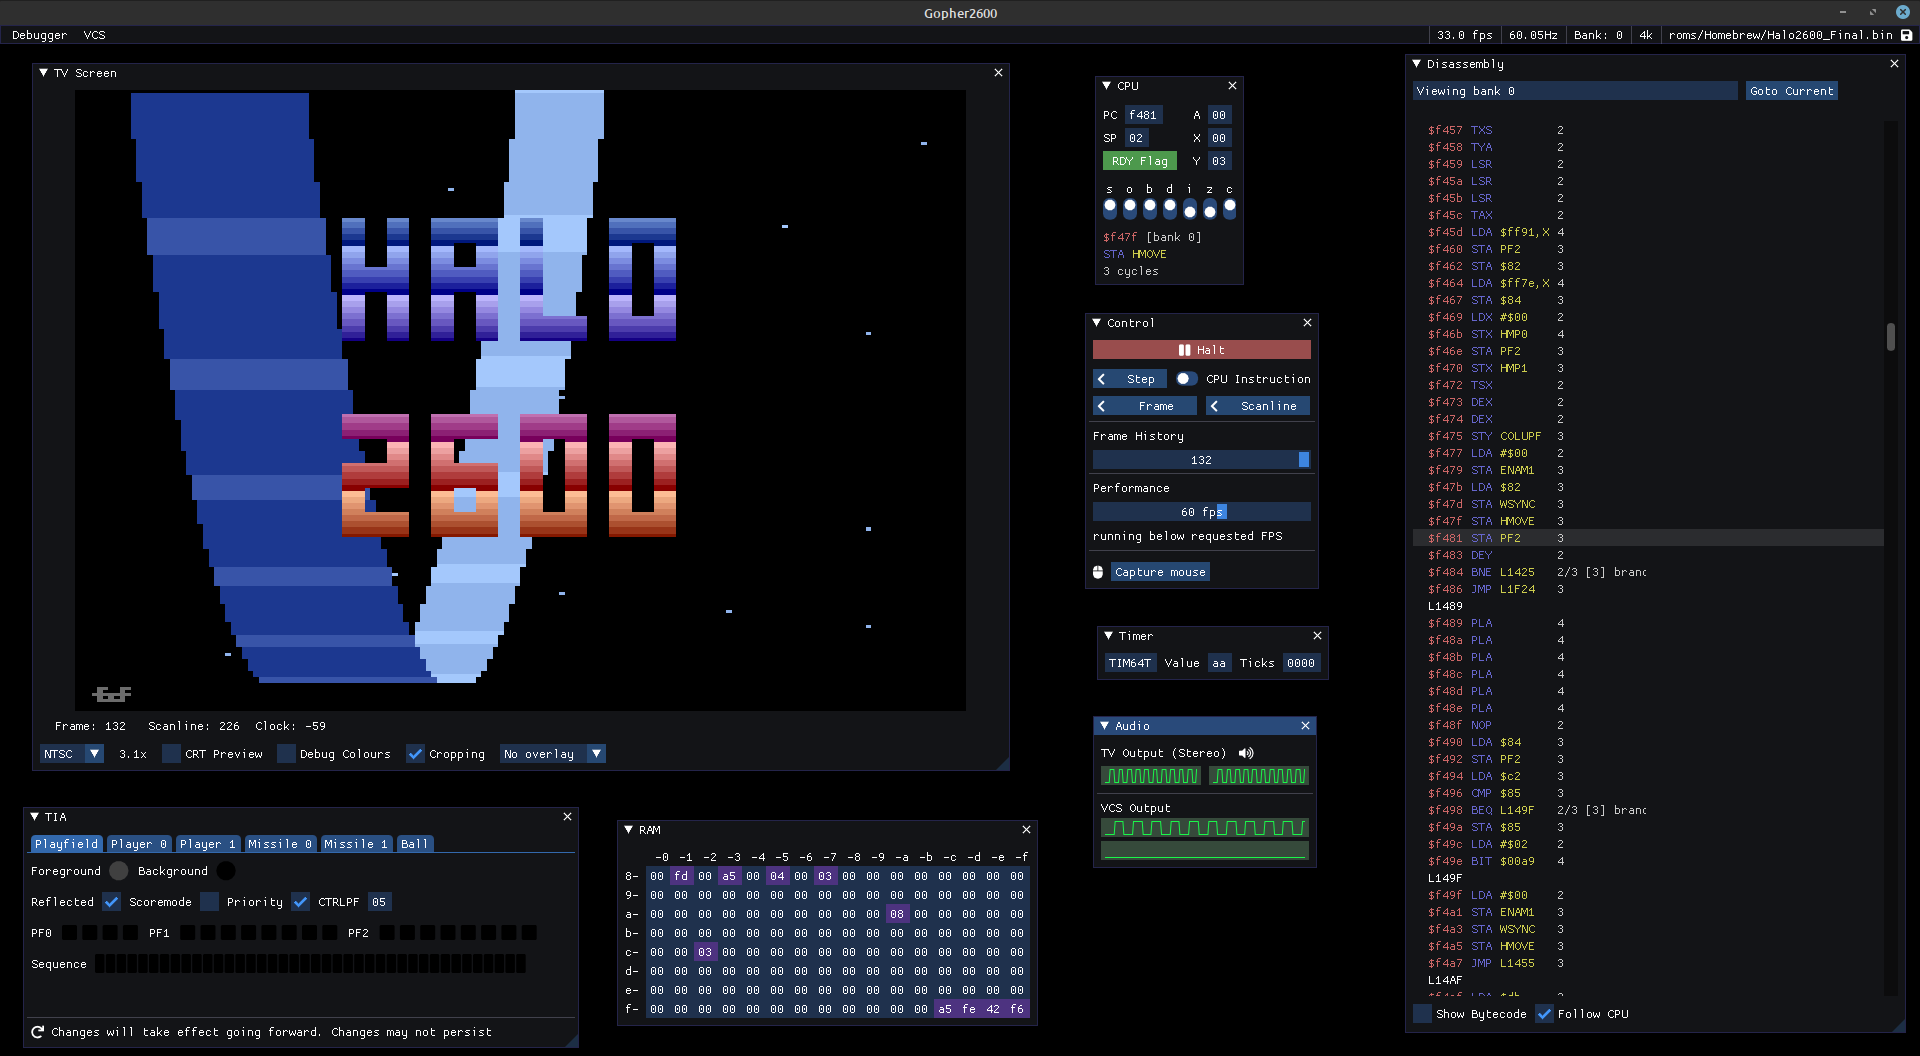
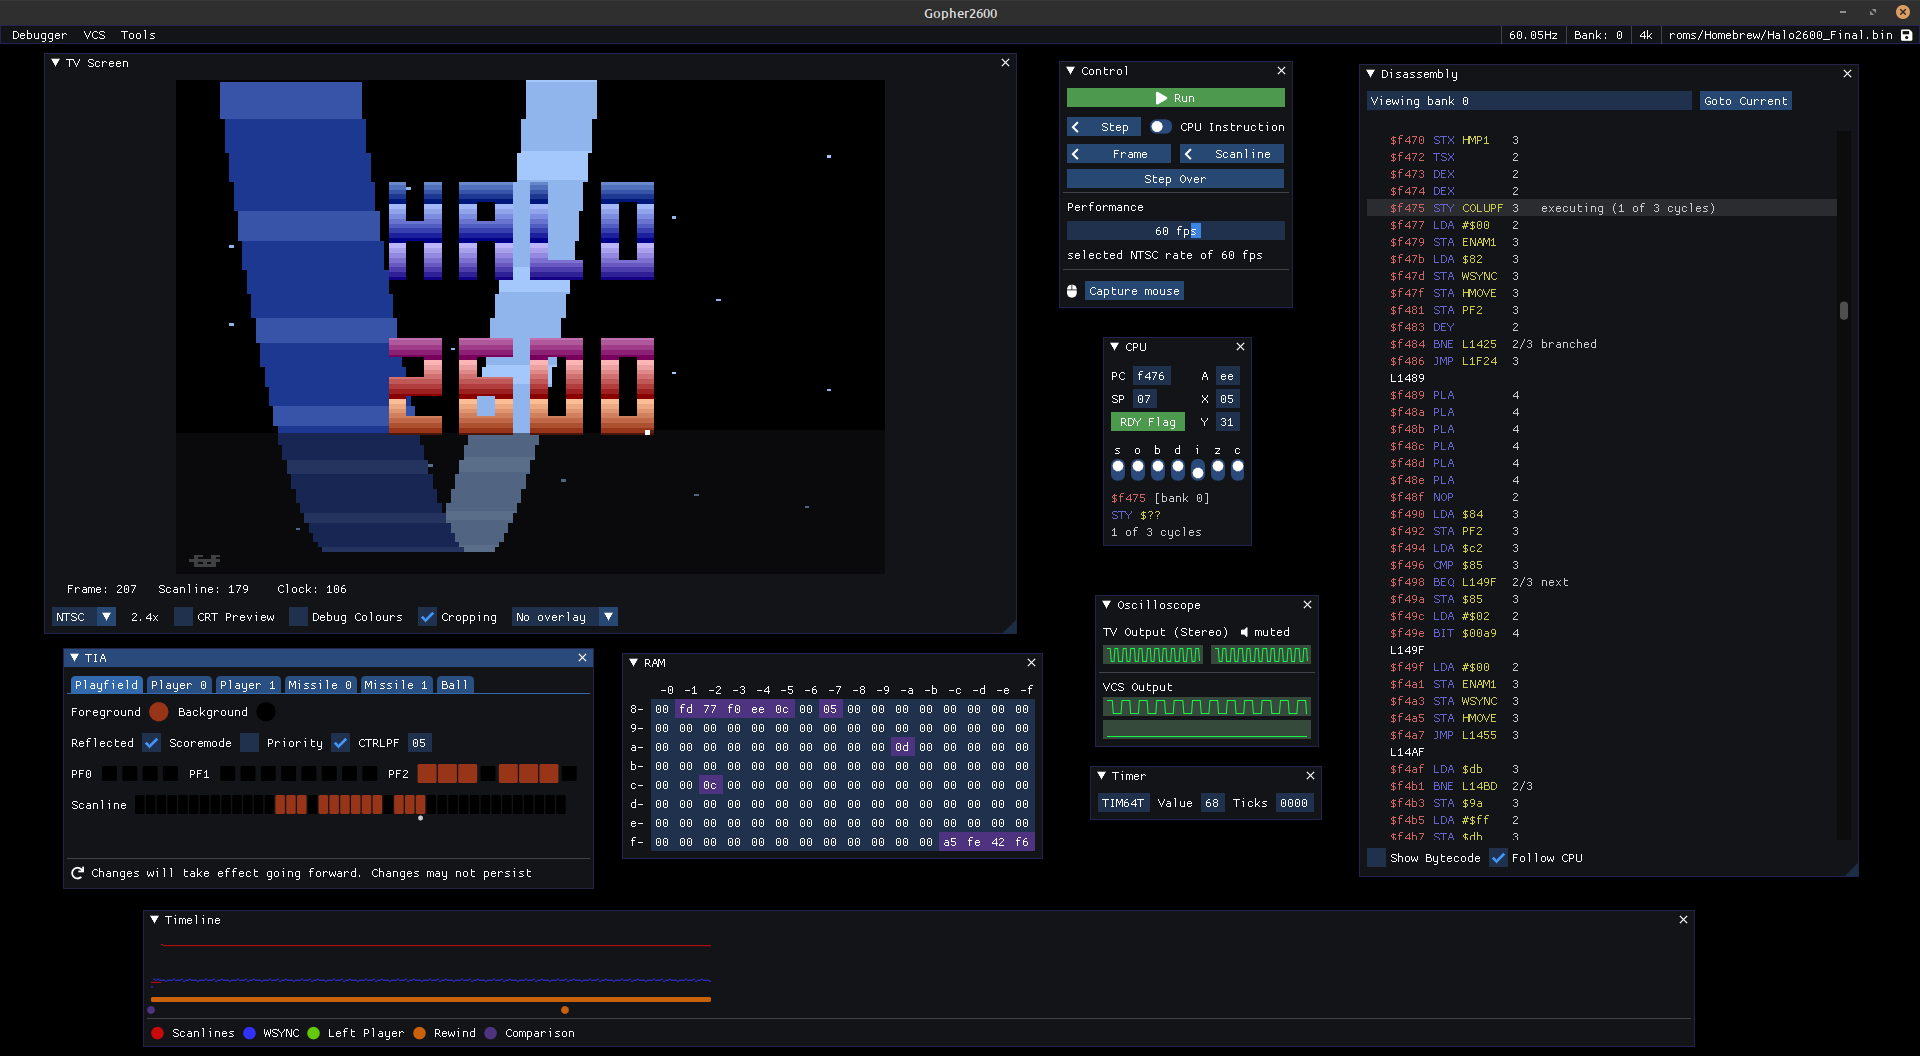
updated README

diff --git a/README.md b/README.md
@@ -21,7 +21,7 @@ The graphical [debugger](#debugger) is still in development but the current feat
 
 * CPU and Video stepping
 * Breakpoints, traps, watches on various CPU, TIA, RIOT targets
-* [Interactive rewinding](#rewinding)
+* [Interactive rewinding](#rewinding) (also available in playmode)
 * Specialist windows for specific cartridge types (eg. supercharger tape)
 * Script recording and playback
 * Line [terminal](#debugger-terminal) interface for harder to reach parts of the emulation
@@ -344,7 +344,16 @@ To control the paddle use the left and right analogue triggers. Note that you
 will need to 'waggle' the triggers a couple of times for the emulator to detect
 that you want to switch to the paddle.
 
-The console's reset switch can be triggered with the gamepad's start button.
+When in `playmode` the gamepad has some additional functionality:
+
+The console's reset switch can be triggered with the gamepad's `start` button,
+whilst the `back` button pauses and unpauses the emulation.
+
+The bumper/shoulder button can be used to rewind the gameplay.
+
+The `guide` button will switch to the debugger.
+
+These button combinations will likely change in the future.
 
 ### Mouse Capture
 
@@ -382,53 +391,26 @@ debugger.
 * `ESC` Quit
 * `Scroll Lock` Toggle mouse capture (`F14` on some keyboards)
 * `Pause` Pause/Resume emulation (`F15` on some keyboard)
+* `Key below the Escape key` Switch between playmode and debugger
+
+In playmode the `Tab` key will open up the ROM selector.
 
 ## Debugger
 
-To run the debugger use the `DEBUG` submode
+The debugger is available by pressing the `key under the Escape key` (the back
+tick key on UK keyboards or the tilde key on US keyboard). This key can also be
+used to switch back to playmode.
 
-	> gopher2600 debug roms/Pitfall.bin
-	
+Alternatively the command line `DEBUG` option can be used
+
 <p align=center>
 	<img src=".screenshots/debugger_halo2600.png" height="400" alt="gopher2600 debugging GUI"/>
 </p>
 
-Because the debugger is still in development, full documentation is not yet available. But briefly, the features we can see in this screeshot are:
-
-The menu-bar across the top of the screen shows the `Debugger`, `VCS` and in this instance a `Cartridge` menu
-
-* From `Debugger` menu you can open the preferences windows the terminal and others.
-* The `VCS` menu contains options to open windows that relate to the VCS itself.
-	* Many of them are already open but other, less frequently required windows are also available
-* The `Cartridge` menu appears when the loaded cartridge type has additional features. For example:
-	* Cartridge memory and or registers
-	* In this case, this is the menu for the `Supercharger` format.
-* At the very right of the menu bar we can see the file path for the loaded cartridge
-
-Below the menu-bar are the debugging windows. In this screenshot we can see:
-
-* The `TV Screen`. This shows the television output from the VCS.
-	* The screen is 'interactive' and will show information about the pixel underneath the cursor
-	* Clicking the screen will move the VCS emulation to the point where the VCS is outputting that pixel. This is part of the [rewind](#rewinding) system.
-	* Also available are a variety of `overlays`. Click the overlay button (labelled `no overlay` in the screenshot and select which overlay you want.
-* The `Audio` window shows the waveform of the recent sound output.
-* The `Control` window allow you to `Run/Halt`, `Step` and also `rewind` through the emulation.
-	* The toggle to right of the `Step` button will put the emulation into `video-cycle` mode. This will allow you to step by a single color-clock at a time, rather than a single CPU instruction.
-	* The `<` buttons will step back by eith a CPU instruction, a scanline or an entire frame. Stepping back by video-cycle is not currently supported.
-* The `Timer` window shows the current state of the RIOT Timer.
-* The `CPU` window shows the current state of the 6507.
-* The `Disassembly` window shows the disassembled ROM.
-	* If a 'DASM' generated symbol file is available then that will be used.
-	* If a symbols file isn't available then the standard symbols will be used. This includes symbols for special cartridge areas that might exists. For example, a hotspot address for switching banks will be indicated with `BANK1`, `BANK2`, etc. instead of the address.
-	* Add or remove a `PC Breakpoint` by clicking on the address.
-* The `RAM` window shows the contents of the VCS RAM. Cartidge RAM if available will be show in the `Cartridge RAM` window. Not shown but available through the cartridge menu when appropriate.
-	* The highlighted bytes indicate those bytes that have changed since the emulation last halted.	
-* The `TIA` window details the six graphical parts of the VCS's graphics chip.
-	* The state of the `TIA` can be changed manually but note that the changes will not be retained when the emulation next updates that part of the TIA. 
-
-Note that much of the information presented in the windows is editable. For example, the contents of the CPU's PC register can be edited via the window. As in all areas of this project, the user is encouraged to experiment.
-
-A (old) video of the debugger in action can be found [here](https://www.youtube.com/watch?v=3vLyRw8iVCA).
+The screenshot above shows a typical window layout of the debugger. The menu
+bar at the top provides more windows, some of which are specific to certain
+cartridge mappers. For example, for cartridges with a `ARM7TDMI` an ARM
+disassembly window is provided.
 
 #### Debugger Terminal
 
@@ -439,15 +421,15 @@ by specifying a keyword. The list below shows the currently defined keywords.
 The rest of the section will give a brief run down of debugger features.
 
 	[ $f000 SEI ] >> help
-	    AUDIO         BALL        BREAK    CARTRIDGE        CLEAR   CONTROLLER
-          CPU       DISASM      DISPLAY         DROP         GREP         HALT
-         HELP       INSERT       KEYPAD         LAST         LINT         LIST
-          LOG       MEMMAP     MEMUSAGE      MISSILE       ONHALT       ONSTEP
-      ONTRACE        PANEL        PATCH         PEEK       PLAYER    PLAYFIELD
-      PLUSROM         POKE        PREFS      QUANTUM         QUIT          RAM
-        RESET       REWIND         RIOT          RUN       SCRIPT         STEP
-        STICK       SYMBOL          TIA        TRACE         TRAP           TV
-        WATCH
+        AUDIO         BALL        BREAK    CARTRIDGE        CLEAR   CONTROLLER
+          CPU       DISASM      DISPLAY         DROP         GOTO         GREP
+         HALT         HELP       INSERT       KEYPAD         LAST         LINT
+         LIST          LOG       MEMMAP     MEMUSAGE      MISSILE       ONHALT
+       ONSTEP      ONTRACE        PANEL        PATCH         PEEK       PLAYER
+    PLAYFIELD      PLUSROM         POKE        PREFS      QUANTUM         QUIT
+          RAM        RESET       REWIND         RIOT          RUN       SCRIPT
+         STEP        STICK       SYMBOL          TIA        TRACE         TRAP
+           TV        WATCH
 	
 The debugger allows tab-completion in most situations. For example, pressing `W` followed by the Tab key on your keyboard, will autocomplete the `WATCH` command. This works for command arguments too. It does not currently work for filenames, or symbols. Given a choice of completions, the Tab key will cycle through the available options.
 
@@ -455,52 +437,45 @@ Addresses can be specified by decimal or hexadecimal. Hexadecimal addresses can 
 
 Watches are one of the three facilities that will halt execution of the emulator. The other two are `TRAP` and `BREAK`. Both of these commands will halt execution when a "target" changes or meets some condition. An example of a target is the Programmer Counter or the Scanline value. See `HELP BREAK` and `HELP TRAP` for more information.
 
-Whenever the emulation does halt, the `ONHALT` command will run. For example, a previous call to `ONHALT CPU` will cause the `CPU` command to run whenever the emulation stops. Similarly, the `ONSTEP` command applies whenever the emulation is stepped forward. By default, the `LAST` command is run on every step.
-
-The debugger can step forward either, one CPU instruction at a time, or by one video cycle at a time. We can change this mode with the `QUANTUM` command. We can also conveniently use the `STEP` command, for example `STEP CLOCK`, performing the quantum change and stepping forward in one go. The STEP command can also be to step forward one scanline or one frame. It can also be used to STEP backwards, although in some cases the REWIND command might be more convenient.
-
 Scripts can be recorded and played back with the `SCRIPT` command. All commands are available when in script recording mode, except `RUN` and further `SCRIPT RECORD` command. Playing back a script while recording a new script is possible.
 
 #### Rewinding
 
 `Gopher2600` allows emulation state to be rewound to an earlier frame, scanline
-or colour-clock. Rewinding by frame is best done through the `Control` window of
-the debugger. 
+or colour-clock. 
 
-<img align="left" src=".screenshots/control_window.png" width="200" alt="control window"/>
+The `timeline` window allows you to move to any frame available in the rewind
+history. The available history is indicated by the orange line. The current
+frame is indicated by the orange circle.
 
-Rewinding to a scanline/colour-clock is done by clicking the left mouse button
-on the debug screen, at the position required. This will change the state of
-the emulation accordingly. This can be done with any frame in the rewind
-history without damaging the rewind history.
+<img src=".screenshots/timeline_window.png" width="500" alt="timeline window"/>
 
-The rewind history will be cropped and continue from the current point whenever
-the emulation is run or stepped.
+Hovering over the timeline will show details of the frame (number of scanlines,
+percentage of WSYNC usage, etc.). Clicking on the timeline will instantly take
+the emulation to that state.
+
+The `TV Screen` window is fully interactive and clicking or dragging on any
+portion of the screen will take the emulation to that scanline/clock of the
+current frame.
+
+##### Rewind History Size
+
+(How rewind states are stored is an area of current development. This section
+will change in the near future)
 
 The number of rewind states stored can be set via the preferences window (or
-through the terminal). In addition the snapshot frequency can also be altered.
-The frequency defines how many frames must pass before another snapshot is
-taken. This affects the number of frames that can be stored. For example, if
-number of states is 100 and frequency is 1 then one-hundred frames can be
-stored in the rewind history. On the other hand, if the number of states is 100
-and frequency is 5 then five-hundred frames can be stored.
+through the terminal). The more rewind states that can be stored the more
+memory on your computer is required.
 
-The rewind frequency does not affect the granularity of the rewind history.
-This means that you can rewind to any frame in the rewind history even if no no
-explicit snapshot has been taken.
+The snapshot frequency can also be altered. The frequency defines how many
+frames must pass before another snapshot is taken.
 
-The downside of large frequencies is that input events (from a joystick for
-example) may be lost if they occurred between snapshots. Future versions of
-`Gopher2600` will correct this.
+The frequency does not affect the granularity of the rewind history however.
+This means that you can rewind to any frame in the rewind history even if the
+frame falls in between the snapshot frequency.
 
-Rewind is also not currently available in playmode. Again, future version of
-`Gopher2600` will allow this.
-
-Video quantum is also not fully supported. While the rewind system will work
-when in video-stepping mode you can not currently interactively alter the
-screen position to the level of an individual colour-clock. Left-clicking on the
-screen, as described above, will 'quantise' to the next CPU instruction. Future
-versions of `Gopher2600` will correct this.
+Currently however, a large snapshot frequency can bman user input can be lost.
+Future version of the emulator will correct this.
 
 ## TIA Revisions
 
@@ -514,12 +489,11 @@ In playmode the preferences window can by opened by pressing `F10`. Select the
 
 A summary of the known TIA revisions / bugs can be found at on [Atari Compendium](http://www.ataricompendium.com/faq/vcs_tia/vcs_tia.html). Not all revisions / bugs are supported by `Gopher2600`
 but the common ones are.
-
 <br clear="right">
 
 ## CRT Effects
 
-<img align="left" src=".screenshots/crt_playmode_prefs_window.png" height="400" alt="crt preferences tab"/>
+<img src=".screenshots/crt_playmode_prefs_window.png" height="400" alt="crt preferences tab"/>
 
 `Gopher2600` tries to emulate the visual effect of a CRT television. This is by
 no means complete and is an area of active development.
@@ -534,8 +508,6 @@ checkbox.
 The effects can be turned off completely with the `Pixel Perfect` option. In
 this mode, there is still the option to specify pixel fade. This is roughly
 equivalent to the `phosphor` effect.
-
-<br clear="left">
 
 ## Screenshots
 
@@ -703,20 +675,10 @@ the `Abort on Illegal Memory Access` option.
 
 ### ARM Disassembly
 
-<img align="left" src=".screenshots/arm_disasm.png" width="400" alt="ARM7 last execution
-window"/> 
+<img align="left" src=".screenshots/arm_disasm.png" width="400" alt="ARM7 disassembly window"/> 
 
-The `Gopher2600` debugger provides a `last execution` window when an ARM using
-cartridge is loaded. This window shows the disassembly of the most recent
-execution of the ARM program. It is available via the `ARM7TDMI` menu
-which will appear in the menubar if the coprocessor is present.
-
-The `Goto` button wil [rewind](#rewind) the emulation to the point where the
-ARM program last executed.
-
-The `Save CSV` button meanwhile will write a copy of the disassembly to a file
-in the working directory. The file will be a semi-colon separated CSV file (not
-commas in this instance).
+The `Gopher2600` debugger provides a `dissasembly` window for ARM programs. By
+default disassembly is turned off for performance reasons.
 
 Note that when the ARM emulation is run in `immediate mode`, the cycles column
 will not contain any meaningful information.
@@ -733,7 +695,6 @@ indicate the period the ARM program is running and the 6507 program is stalled.
 Also note that for best results the `cropping` option (see screenshot) should be disabled.
 
 This view is useful during development to make sure you ARM program isn't running for too long.
-
 <br clear="right">
 
 ## Movie Cart
